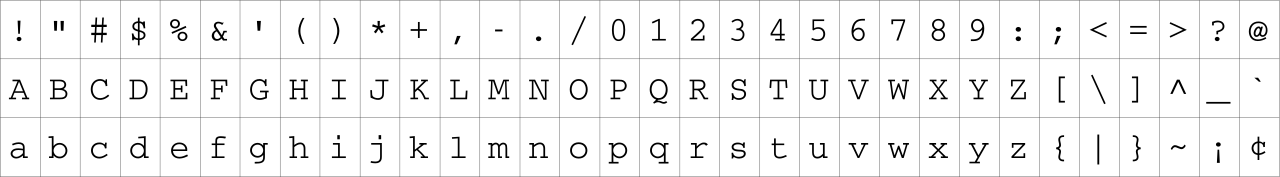
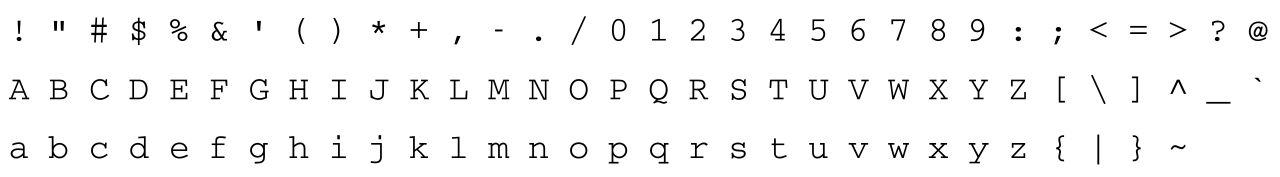
More tweaking for text

diff --git a/src/txt/grid.rs b/src/txt/grid.rs
@@ -19,7 +19,7 @@ impl TextGrid {
 
     /// The ratio to trim off each of the source rectangles so that the borders
     /// are not included in the draw
-    pub const PADDING_FACTOR: f32 = 0.05;
+    pub const PADDING_FACTOR: [f32; 2] = [0.30, 0.10];
 
     /// loads the Courier sprite sheet embedded with A2D
     pub fn courier_sprite_sheet(graphics: &mut Graphics2D) -> Result<Rc<SpriteSheet>> {
@@ -40,12 +40,13 @@ impl TextGrid {
     /// location if you'd like
     ///
     pub fn new(sheet: Rc<SpriteSheet>, char_width: f32, dim: [u32; 2]) -> Self {
-        let char_height = char_width / Self::CHAR_WIDTH_TO_HEIGHT_RATIO;
+        let [padding_factor_x, padding_factor_y] = Self::PADDING_FACTOR;
+        let char_height = char_width / Self::CHAR_WIDTH_TO_HEIGHT_RATIO / (1.0 - padding_factor_x) * (1.0 - padding_factor_y);
         let mut smap = SpriteMap::new(
             sheet,
             Self::CHAR_MAP_LAYOUT_DIM,
             [char_width, char_height],
-            0.10,
+            Self::PADDING_FACTOR,
         );
         let [nrows, ncols] = dim;
         let empty_cell_index = Self::char_to_cell_index(' ');
@@ -77,18 +78,15 @@ impl TextGrid {
 
     fn char_to_cell_index(c: char) -> u32 {
         // NOTE: assumes that '!' is the first printable character
-        let c = {
-            let c = c as u32;
-            if c < '!' as u32 || c >= 127 {
-                // if it's not printable ASCII, point to the last
-                // cell
-                let [max_r, max_c] = Self::CHAR_MAP_LAYOUT_DIM;
-                max_r * max_c - 1
-            } else {
-                c
-            }
-        };
-        c - '!' as u32
+        let c = c as u32;
+        if c < '!' as u32 || c >= 127 {
+            // if it's not printable ASCII, point to the last
+            // cell
+            let [max_r, max_c] = Self::CHAR_MAP_LAYOUT_DIM;
+            max_r * max_c - 1
+        } else {
+            c - '!' as u32
+        }
     }
 
     /// Returns the number of rows in this TextGrid

diff --git a/src/g2d/sprite/map.rs b/src/g2d/sprite/map.rs
@@ -24,7 +24,7 @@ pub struct SpriteMap {
     /// The amount to trim border by as a factor between 0 and 1, with
     /// 1 trimming everything down to a point, and 0 trimming nothing
     /// around the border
-    border_trim_factor: f32,
+    border_trim_factor: [f32; 2],
 }
 
 impl SpriteMap {
@@ -32,13 +32,14 @@ impl SpriteMap {
         sheet: Rc<SpriteSheet>,
         dimensions: D,
         default_dst_dim: DD,
-        border_trim_factor: f32,
+        border_trim_factor: [f32; 2],
     ) -> Self
     where
         D: Into<SpriteMapDimensions>,
         DD: Into<Dimensions>,
     {
-        assert!(0.0 <= border_trim_factor && border_trim_factor <= 1.0);
+        assert!(0.0 <= border_trim_factor[0] && border_trim_factor[0] <= 1.0);
+        assert!(0.0 <= border_trim_factor[1] && border_trim_factor[1] <= 1.0);
         let batch = SpriteBatch::new(sheet);
         Self {
             batch,
@@ -139,15 +140,16 @@ impl SpriteMapDimensions {
     }
 
     /// Returns the rect
-    fn rect_for_cell(&self, cell_index: u32, border_trim_factor: f32) -> Rect {
+    fn rect_for_cell(&self, cell_index: u32, border_trim_factor: [f32; 2]) -> Rect {
+        let [trim_factor_x, trim_factor_y] = border_trim_factor;
         let [row, col] = self.cell_coord(cell_index);
         let cell_width = self.cell_width();
         let cell_height = self.cell_height();
-        let ul_x = cell_width * (col as f32 + border_trim_factor / 2.0);
-        let ul_y = cell_height * (row as f32 + border_trim_factor / 2.0);
+        let ul_x = cell_width * (col as f32 + trim_factor_x / 2.0);
+        let ul_y = cell_height * (row as f32 + trim_factor_y / 2.0);
 
-        let lr_x = ul_x + cell_width * (1.0 - border_trim_factor);
-        let lr_y = ul_y + cell_height * (1.0 - border_trim_factor);
+        let lr_x = ul_x + cell_width * (1.0 - trim_factor_x);
+        let lr_y = ul_y + cell_height * (1.0 - trim_factor_y);
         [ul_x, ul_y, lr_x, lr_y].into()
     }
 

diff --git a/examples/ex5-txt/main.rs b/examples/ex5-txt/main.rs
@@ -1,6 +1,9 @@
 extern crate a2d;
 use a2d::Graphics2D;
+use a2d::SpriteSheet;
+use a2d::SpriteBatch;
 use a2d::TextGrid;
+use a2d::Instance;
 use futures::executor::block_on;
 use winit::{
     dpi::LogicalSize,
@@ -28,14 +31,21 @@ pub fn main() {
 
     let mut state = block_on(Graphics2D::from_winit_window(&window)).unwrap();
     state.set_scale([WIDTH, HEIGHT]);
+    let bg_sheet = SpriteSheet::from_color(&mut state, [1.0, 1.0, 1.0]).unwrap();
+    let mut bg_batch = SpriteBatch::new(bg_sheet);
+    bg_batch.add(Instance::new(
+        [0.0, 0.0, 1.0, 1.0],
+        [0.0, 0.0, WIDTH, HEIGHT],
+        0.0,
+    ));
     let char_sheet = TextGrid::courier_sprite_sheet(&mut state).unwrap();
-    let mut tgrid = TextGrid::new(char_sheet, WIDTH / 40.0, [15, 10]);
+    let mut tgrid = TextGrid::new(char_sheet, WIDTH / 80.0, [20, 10]);
 
     tgrid.write(0, 0, "Hello world!");
 
     event_loop.run(move |event, _, control_flow| match event {
         Event::RedrawRequested(_) => {
-            state.render(&[tgrid.batch()]);
+            state.render(&[&bg_batch, tgrid.batch()]);
             std::thread::yield_now();
         }
         Event::MainEventsCleared => {

diff --git a/src/g2d/sprite/sheet.rs b/src/g2d/sprite/sheet.rs
@@ -121,7 +121,7 @@ impl SpriteSheet {
             address_mode_v: wgpu::AddressMode::ClampToEdge,
             address_mode_w: wgpu::AddressMode::ClampToEdge,
             mag_filter: wgpu::FilterMode::Linear,
-            min_filter: wgpu::FilterMode::Nearest,
+            min_filter: wgpu::FilterMode::Linear,
             mipmap_filter: wgpu::FilterMode::Nearest,
             lod_min_clamp: -100.0,
             lod_max_clamp: 100.0,

diff --git a/src/res/mod.rs b/src/res/mod.rs
@@ -2,4 +2,5 @@
 
 /// IBM Courier charmap from wikipedia
 /// https://en.wikipedia.org/wiki/File:IBMCourierCharmap.svg
+/// The image has been cleaned a bit for use here
 pub(crate) const COURIER_CHARMAP: &[u8] = include_bytes!("courier.png");
